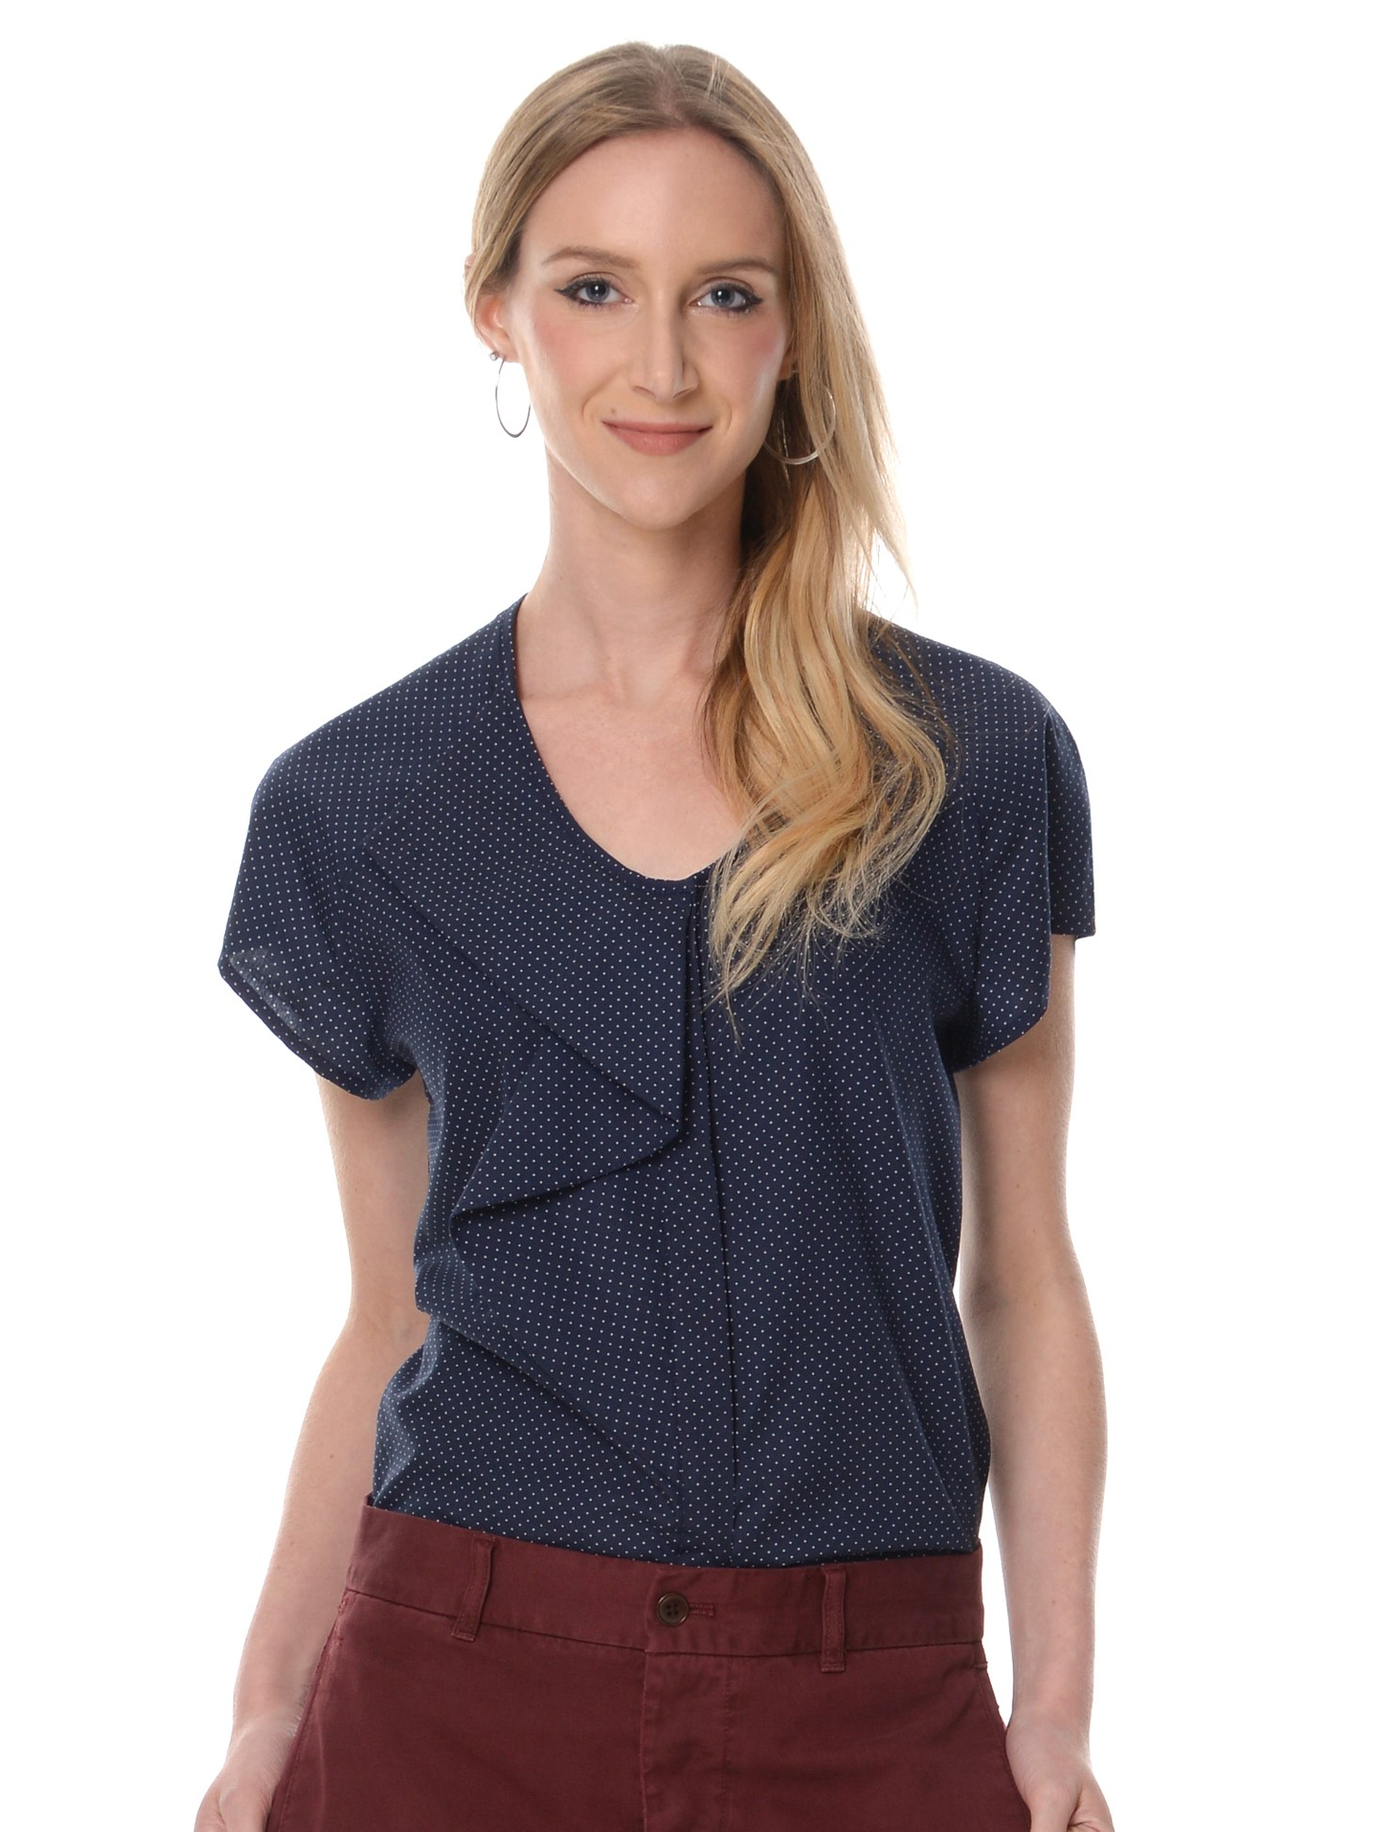
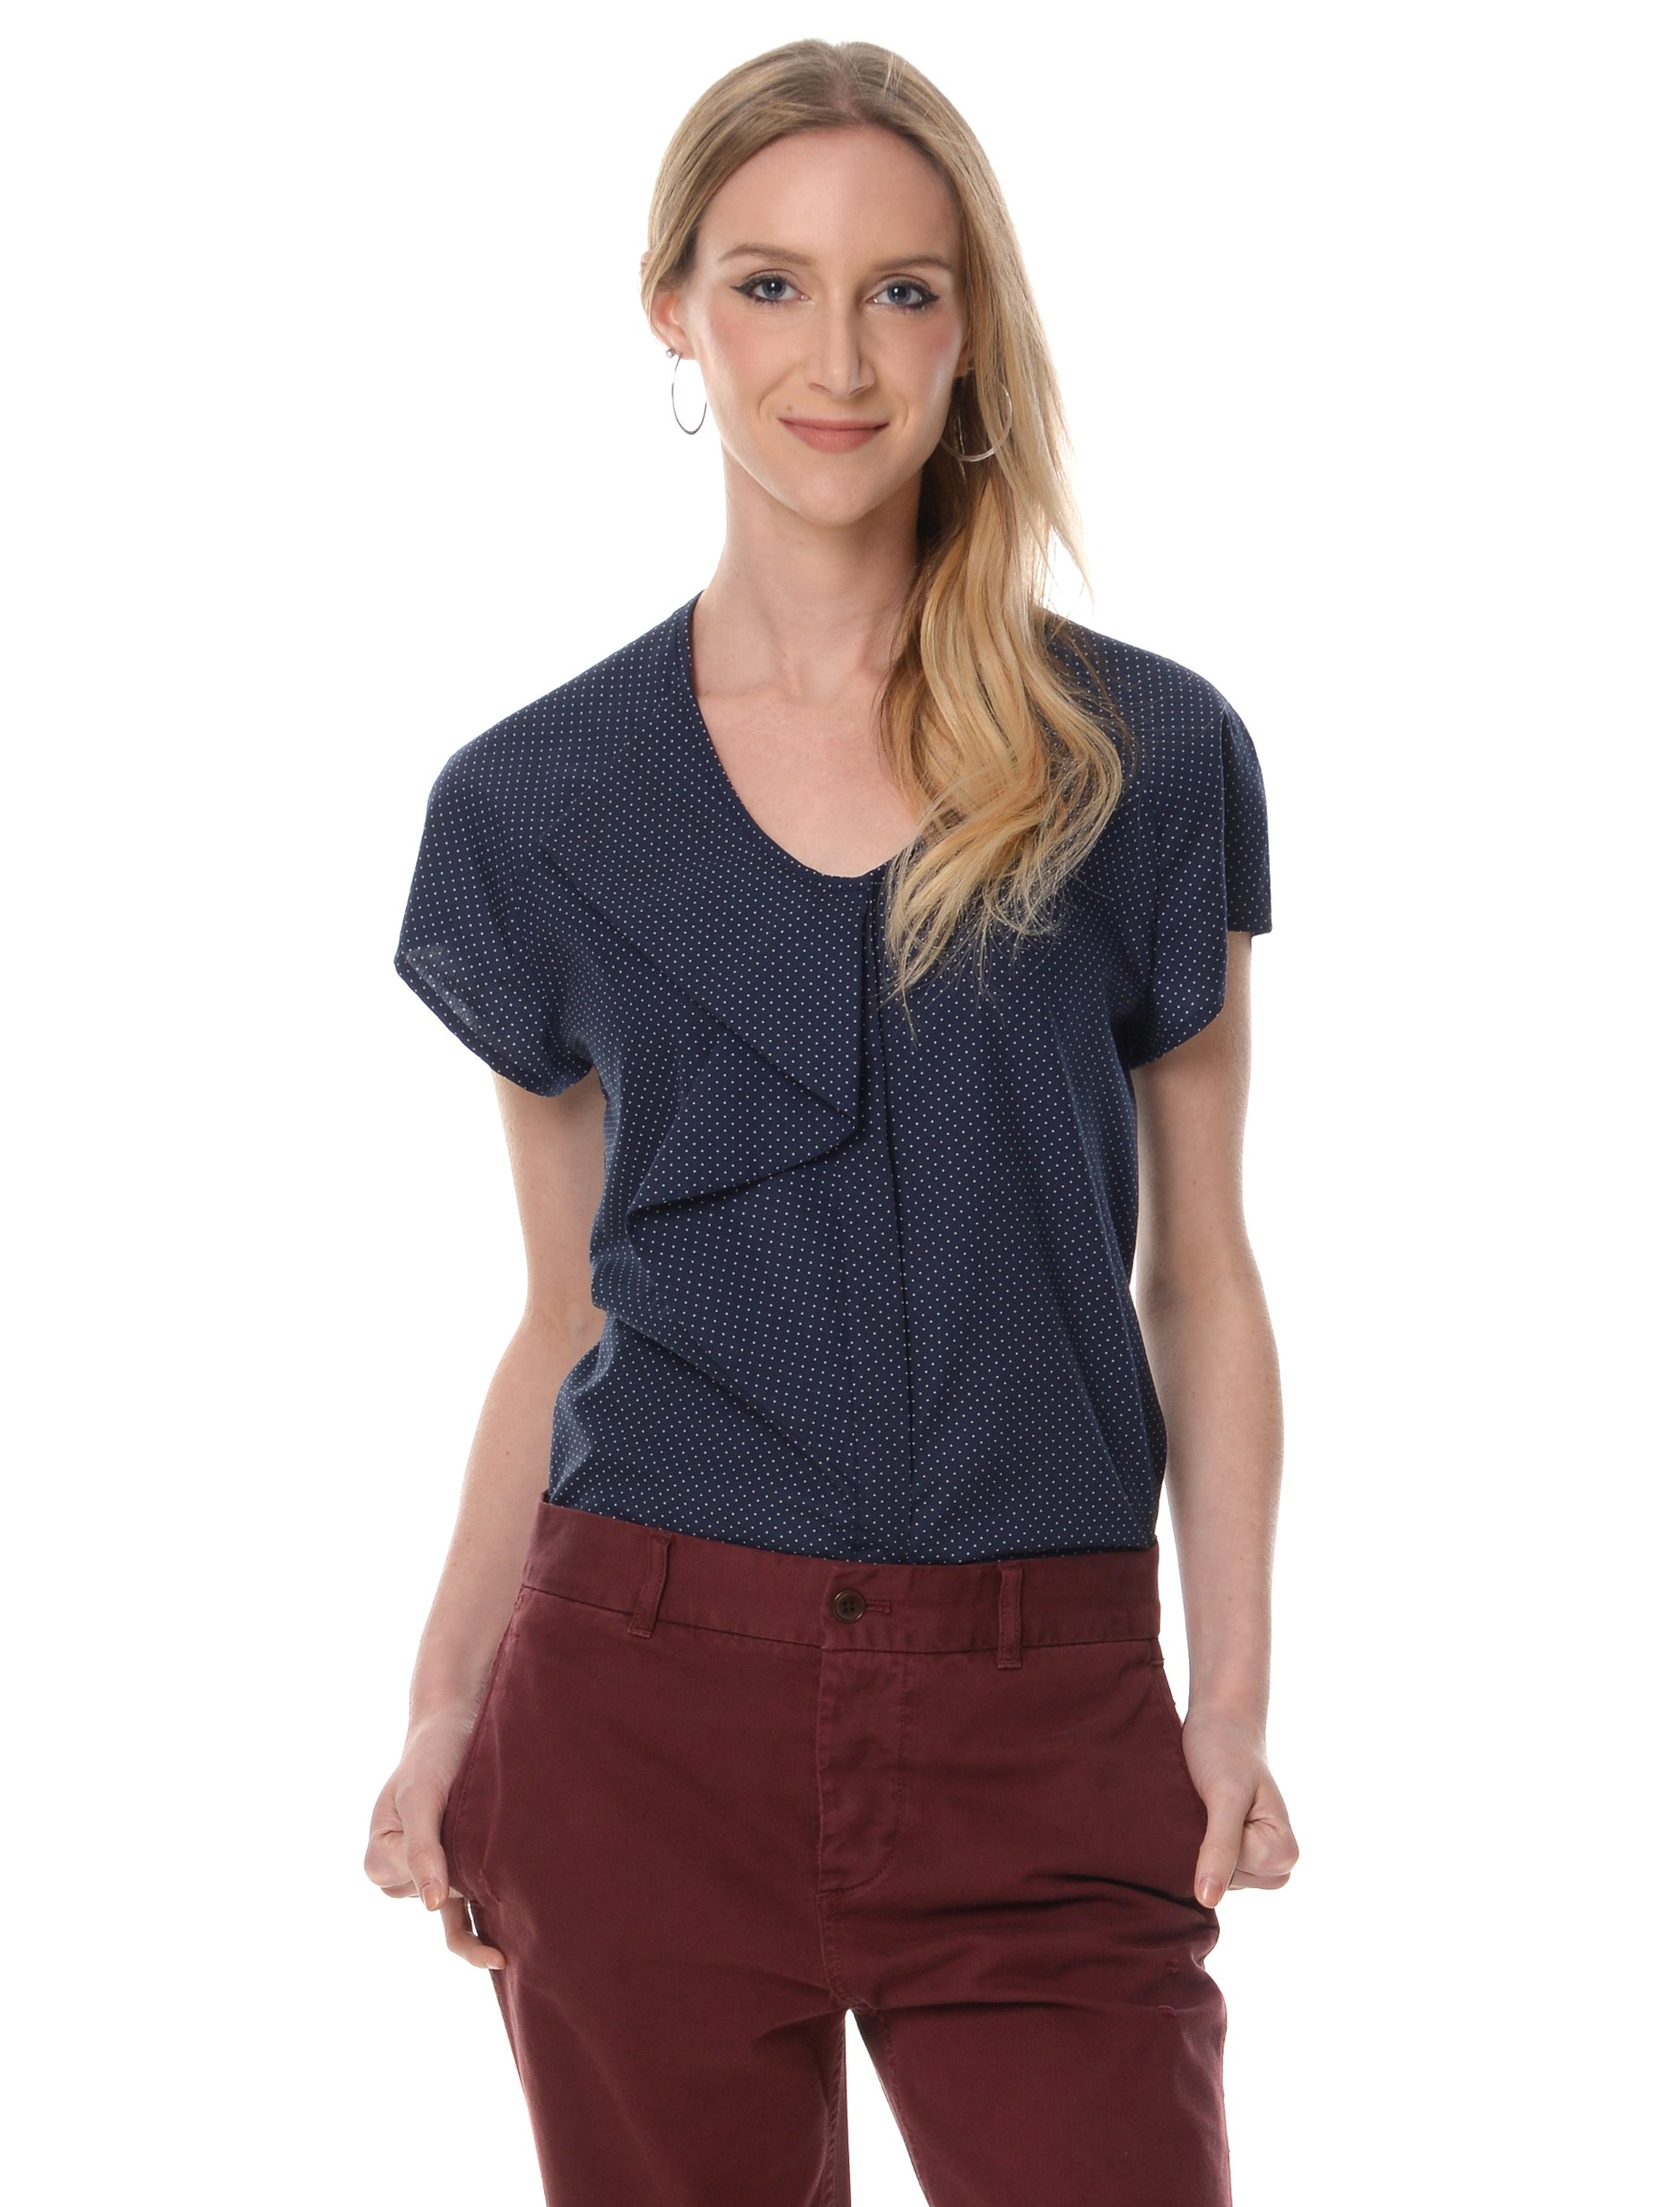
Fixed typos in about pg and look book, zoomed out box 7

diff --git a/look-book.html b/look-book.html
@@ -106,7 +106,7 @@
                     </div>
                     <div class="col-xs-12 col-sm-6">
                       <p class="modal-text text-left">You will reach for this collared shirt often to dress up or down. It comes with a concealed placket, cuffed raglan cap sleeves, single chest pocket, and box pleat in the back yoke.</p>
-                      <p class="modal-text-cont text-left"> It is offered in black Cotton Swiss Dot fabric.</p>
+                      <p class="modal-text-cont text-left"> It is offered in black cotton Swiss dot fabric.</p>
                       <p class="modal-text-cont text-left"> A base layer is recommended. </p>
                     </div>
                   </div>
@@ -139,7 +139,7 @@
                     <div class="col-xs-12 col-sm-6">
                       <p class="modal-text text-left">A favorite luxe crimson blouse with collar and sheer raglan sleeves with slightly longer shirttail hem gives endless style options.</p>
                       <p class="modal-text-cont text-left">Dress it up for a special event or wear it with your favorite jeans for a dinner date or party.</p>
-                      <p class="modal-text-cont text-left">Offered in Silk de Chine with Silk Chiffon sleeves.</p>
+                      <p class="modal-text-cont text-left">Offered in silk de Chine with silk Chiffon sleeves.</p>
                     </div>
                   </div>
                 </div>
@@ -171,7 +171,7 @@
                     <div class="col-xs-12 col-sm-6">
                       <p class="modal-text text-left">Rich teal green blouse has open shoulders, elbow-length flutter sleeves and a keyhole neckline.</p>
                       <p class="modal-text-cont text-left">The slight hi-lo hem makes it easy to pair with high waist bottom or a cropped slightly flared pant. Perfect paired with black.</p>
-                      <p class="modal-text-cont text-left">Offered in Silk de Chine.</p>
+                      <p class="modal-text-cont text-left">Offered in silk de Chine.</p>
                     </div>
                   </div>
                 </div>

diff --git a/about.html b/about.html
@@ -80,7 +80,7 @@
         <div id="about-body">
           <p>This is the debut for <span class="snell-about">Silken Strands</span>, a collection of natural fiber blouses for Fall 2017. </p>
 
-          <p>The line was designed for women desiring classic woven blouses that are flattering, feminine, and fun. You will find shorter sleeves and lighter fabrics in fall hues and tones in the collection. We want you wearing fall colors while feeling comfortable at an outdoor event or meeting a client for lunch on a warm autumn day. We have added elements such as raglan sleeves, open shoulders, concealed plackets, v-necklines, v-backs, and asymmetry to flatter you. The designs are simple with fabrics which have soft hands, float away from the body, and are sewn in rich beautiful colors. The collection offers blouses in Cotton Swiss Dot, Cotton Chambray, Cotton Poplin, Cotton Voile, Cotton Jacquard, Silk Crepe de Chine, and Silk Chiffon.</p>
+          <p>The line was designed for women desiring classic woven blouses that are flattering, feminine, and fun. You will find shorter sleeves and lighter fabrics in fall hues and tones in the collection. We want you wearing fall colors while feeling comfortable at an outdoor event or meeting a client for lunch on a warm autumn day. We have added elements such as raglan sleeves, open shoulders, concealed plackets, v-necklines, v-backs, and asymmetry to flatter you. In construction, we used French seams, which take more time to sew but add a smoother, neater appearance and are more durable. The designs are simple with fabrics which have soft hands, float away from the body, and are sewn in rich beautiful colors. The collection offers blouses in cotton Swiss dot, cotton Chambray, cotton Poplin, cotton Voile, cotton jacquard, silk de Chine, and silk chiffon.</p>
 
           <div id="narrative-block">
             <h3 class="snell-about">Inspiration</h3>

diff --git a/look-book.css b/look-book.css
@@ -45,6 +45,10 @@
   text-align: center;
 }
 
+#box-7 img{
+  scale: 1.2x;
+}
+
 
 /*   M O D A L  */
 .modal-dialog {
